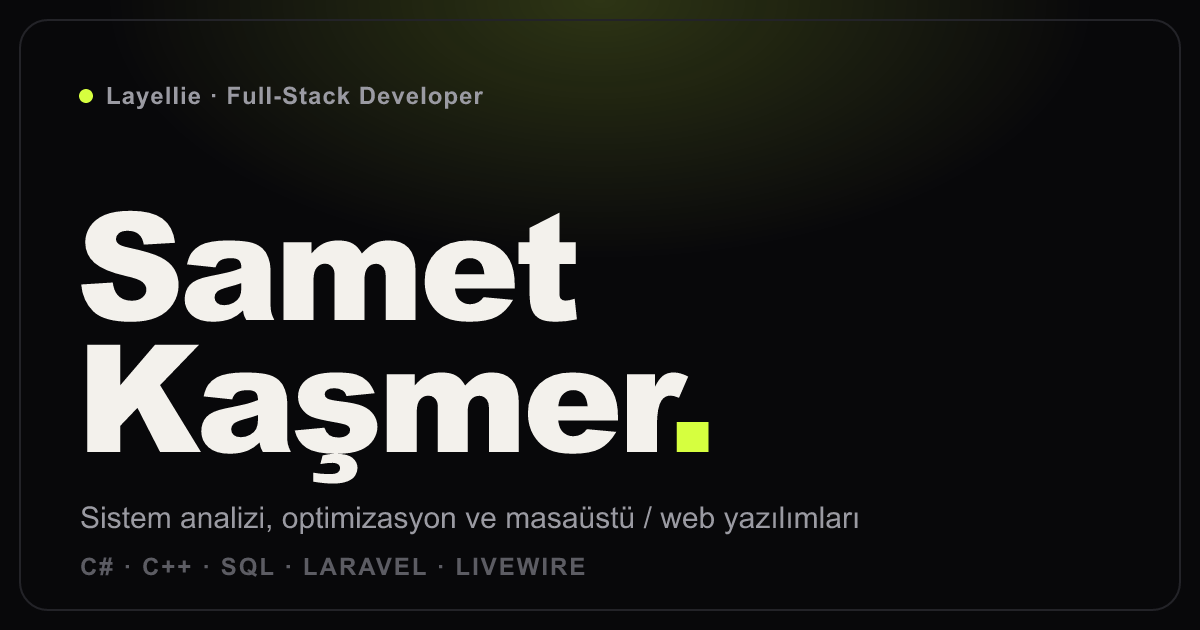
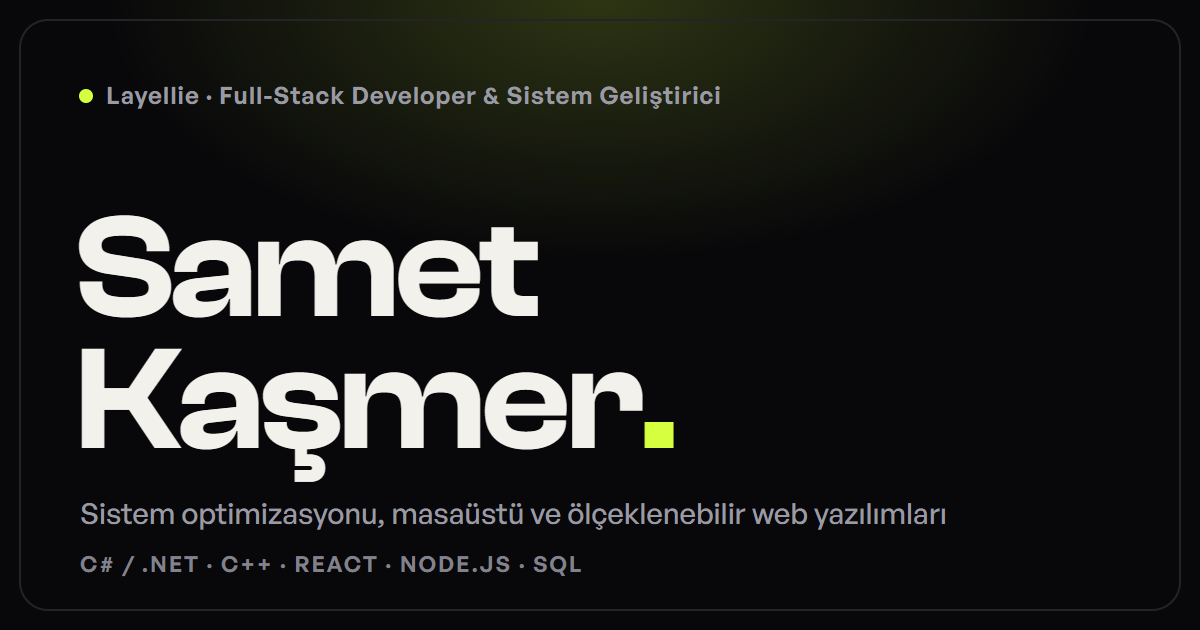
chore(meta,tests): refresh OG card, add web manifest and fix 8 stale tests

diff --git a/index.html b/index.html
@@ -5,6 +5,7 @@
     <link rel="icon" href="/favicon.ico" sizes="48x48" />
     <link rel="icon" href="/favicon.svg" type="image/svg+xml" />
     <link rel="apple-touch-icon" href="/apple-touch-icon.png" />
+    <link rel="manifest" href="/manifest.webmanifest" />
     <meta name="viewport" content="width=device-width, initial-scale=1.0" />
     <meta name="theme-color" content="#08080a" /><style>html{background:#08080a;color-scheme:dark}</style>
 
@@ -15,12 +16,12 @@
     <title>Samet Kaşmer — Full-Stack Developer & Sistem Geliştirici</title>
     <meta
       name="description"
-      content="Samet Kaşmer (Layellie / Laye77ie) — Full-Stack Developer & Sistem Geliştirici. C# / C++ masaüstü, Laravel / Livewire web ve sistem optimizasyonu projeleri."
+      content="Samet Kaşmer (Layellie / Laye77ie) — Full-Stack Developer & Sistem Geliştirici. C# / C++ masaüstü, React / Node.js web ve sistem optimizasyonu projeleri."
     />
     <meta name="author" content="Samet Kaşmer" />
     <meta
       name="keywords"
-      content="Samet Kaşmer, Layellie, Laye77ie, Samet Kasmer, Full-Stack Developer, C#, C++, Laravel, Livewire, sistem optimizasyonu, yazılım geliştirici, portfolyo"
+      content="Samet Kaşmer, Layellie, Laye77ie, Samet Kasmer, Full-Stack Developer, C#, C++, .NET, WPF, React, Node.js, SQL, sistem optimizasyonu, yazılım geliştirici, portfolyo"
     />
 
     <!-- ⚠ Yayınladıktan sonra kendi domaininle değiştir -->
@@ -32,7 +33,7 @@
     <meta property="og:title" content="Samet Kaşmer — Full-Stack Developer & Sistem Geliştirici" />
     <meta
       property="og:description"
-      content="C# / C++ masaüstü, Laravel / Livewire web ve sistem optimizasyonu projeleri. Açık kaynak araçlar geliştiriyorum."
+      content="C# / C++ masaüstü, React / Node.js web ve sistem optimizasyonu projeleri. Açık kaynak araçlar geliştiriyorum."
     />
     <meta property="og:url" content="https://layellie.github.io/" />
     <meta property="og:image" content="https://layellie.github.io/og.png" />
@@ -46,7 +47,7 @@
     <meta name="twitter:title" content="Samet Kaşmer — Full-Stack Developer & Sistem Geliştirici" />
     <meta
       name="twitter:description"
-      content="C# / C++ masaüstü, Laravel / Livewire web ve sistem optimizasyonu projeleri."
+      content="C# / C++ masaüstü, React / Node.js web ve sistem optimizasyonu projeleri."
     />
     <meta name="twitter:image" content="https://layellie.github.io/og.png" />
 

diff --git a/tests/admin/model.test.js b/tests/admin/model.test.js
@@ -23,10 +23,11 @@ describe("admin data model", () => {
   afterEach(() => vi.useRealTimers());
 
   it("duplicates a project as a uniquely identified draft", () => {
+    const sourceIndex = portfolioFiles.projects.items.findIndex((item) => item.id === "clipboard");
     const result = duplicateProject(portfolioFiles.projects.items, "clipboard");
     expect(result).toHaveLength(portfolioFiles.projects.items.length + 1);
-    expect(result[1].id).toBe("clipboard-copy");
-    expect(result[1].publicationStatus).toBe("draft");
+    expect(result[sourceIndex + 1].id).toBe("clipboard-copy");
+    expect(result[sourceIndex + 1].publicationStatus).toBe("draft");
   });
 
   it("reorders without mutating the source", () => {
@@ -38,18 +39,20 @@ describe("admin data model", () => {
 
   it("detects bilingual omissions before publish", () => {
     const draft = clonePortfolio(portfolioFiles);
+    const firstId = draft.projects.items[0].id;
     draft.projects.items[0].en.description = "";
-    expect(translationWarnings(draft)).toContain("projects.clipboard.en.description");
+    expect(translationWarnings(draft)).toContain(`projects.${firstId}.en.description`);
     expect(() => validatePortfolio(draft)).toThrow();
   });
 
   it("summarizes added, changed and removed records", () => {
     const draft = clonePortfolio(portfolioFiles);
+    const firstId = draft.projects.items[0].id;
     draft.projects.items[0].tr.name = "Changed";
     draft.certificates.items.pop();
     draft.visuals.presets.push({ ...structuredClone(draft.visuals.presets[0]), id: "new-visual", name: "New" });
     const summary = createDiffSummary(portfolioFiles, draft);
-    expect(summary.projects.changed).toContain("clipboard");
+    expect(summary.projects.changed).toContain(firstId);
     expect(summary.certificates.removed).toHaveLength(1);
     expect(summary.visuals.added).toEqual(["new-visual"]);
     expect(hasDiff(summary)).toBe(true);

diff --git a/tests/admin/merge.test.js b/tests/admin/merge.test.js
@@ -30,9 +30,10 @@ describe("three-way portfolio merge", () => {
     const remote = clonePortfolio(portfolioFiles);
     local.projects.items[0].tr.name = "Local";
     remote.projects.items[0].tr.name = "Remote";
+    const firstId = portfolioFiles.projects.items[0].id;
     const pending = mergePortfolioFiles(portfolioFiles, local, remote);
     expect(pending.conflicts).toHaveLength(1);
-    expect(pending.conflicts[0].path).toContain("#clipboard.tr.name");
+    expect(pending.conflicts[0].path).toContain(`#${firstId}.tr.name`);
     const resolved = mergePortfolioFiles(portfolioFiles, local, remote, { [pending.conflicts[0].key]: "remote" });
     expect(resolved.conflicts).toEqual([]);
     expect(resolved.files.projects.items[0].tr.name).toBe("Remote");
@@ -100,11 +101,12 @@ describe("three-way portfolio merge", () => {
   it("keeps independent additions and deletions deterministic without losing records", () => {
     const local = clonePortfolio(portfolioFiles);
     const remote = clonePortfolio(portfolioFiles);
+    const [first, removed, ...rest] = portfolioFiles.projects.items.map((item) => item.id);
     local.projects.items.splice(1, 0, { ...structuredClone(local.projects.items[0]), id: "local-project" });
     remote.projects.items.push({ ...structuredClone(remote.projects.items[0]), id: "remote-project" });
-    remote.projects.items = remote.projects.items.filter((item) => item.id !== "standby");
+    remote.projects.items = remote.projects.items.filter((item) => item.id !== removed);
     const result = mergePortfolioFiles(portfolioFiles, local, remote);
     expect(result.conflicts).toEqual([]);
-    expect(result.files.projects.items.map((item) => item.id)).toEqual(["clipboard", "local-project", "eyehealth", "remote-project"]);
+    expect(result.files.projects.items.map((item) => item.id)).toEqual([first, "local-project", ...rest, "remote-project"]);
   });
 });

diff --git a/tests/readme/backend-showcase.test.js b/tests/readme/backend-showcase.test.js
@@ -43,10 +43,10 @@ describe("README admin backend showcase", () => {
       await expect(access(path.join(root, relativePath))).resolves.toBeUndefined();
     }
 
-    const mermaid = readme.match(/```mermaid\n([\s\S]*?)```/)?.[1];
+    const mermaid = readme.match(/```mermaid\r?\n([\s\S]*?)```/)?.[1];
     expect(mermaid).toBeTruthy();
     expect(mermaid.trimStart().startsWith("flowchart LR")).toBe(true);
-    const edges = mermaid.split("\n").filter((line) => line.includes("-->"));
+    const edges = mermaid.split(/\r?\n/).filter((line) => line.includes("-->"));
     expect(edges).toHaveLength(7);
     for (const edge of edges) {
       expect(edge).toMatch(

diff --git a/tests/admin/visual-builder-validation.test.jsx b/tests/admin/visual-builder-validation.test.jsx
@@ -39,8 +39,9 @@ describe("VisualBuilder canonical module errors", () => {
 
     fireEvent.click(screen.getByRole("button", { name: "Preset sil" }));
 
-    expect(screen.getByText("Preset yayındaki projeler tarafından kullanılıyor")).toBeTruthy();
-    expect(screen.getByText(new RegExp(project.tr.name))).toBeTruthy();
+    const warningTitle = screen.getByText("Preset yayındaki projeler tarafından kullanılıyor");
+    expect(warningTitle).toBeTruthy();
+    expect(warningTitle.parentElement?.textContent).toContain(project.tr.name);
     expect(onChange).not.toHaveBeenCalled();
   });
 

diff --git a/tests/admin/about-editor.test.jsx b/tests/admin/about-editor.test.jsx
@@ -31,7 +31,7 @@ describe("AboutEditor", () => {
 
     fireEvent.click(screen.getByRole("tab", { name: "English" }));
     expect(screen.getByDisplayValue("About")).toBeTruthy();
-    expect(screen.getByDisplayValue(/Computer Programming at Kütahya/)).toBeTruthy();
+    expect(screen.getByDisplayValue(/Computer Programming .*Kütahya/)).toBeTruthy();
   });
 
   it("edits a segment tone and reflects it in the live preview", () => {
